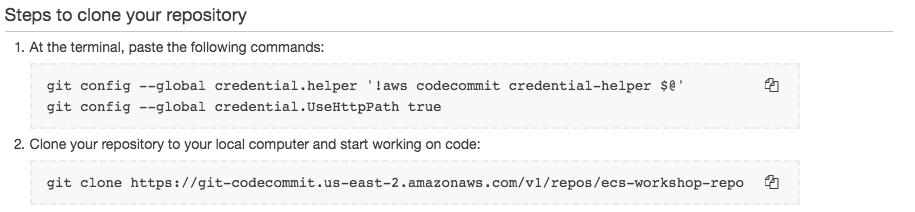
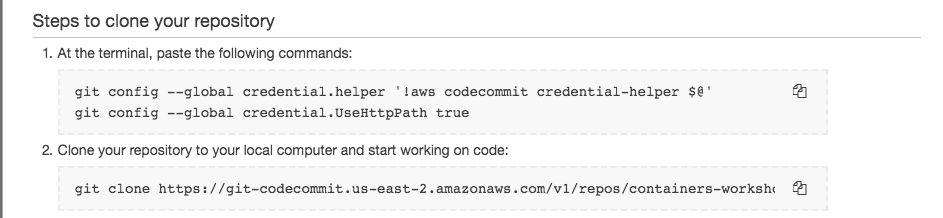
Adding CodeCommit content

Changed region(s): [[0.0, 0.0, 0.9792, 1.0], [0.8262, 0.3679, 0.8568, 0.4528]]

diff --git a/06-CDECS/README.md b/06-CDECS/README.md
@@ -36,16 +36,71 @@ Otherwise click **Create repository**.
 
 ![CodeCommit create repository](/06-CDECS/images/codecommit_create_repository.png)
 
-In **Respoitory name** type a name for your respository. For exmaple: `ecs-workshop-repo`. Leave **Description** blank and click in **Create repository**.
+In **Respoitory name** type a name for your respository. For exmaple: `containers-workshop-repository`. Leave **Description** blank and click in **Create repository**.
 
 ![CodeCommit create repository](/06-CDECS/images/codecommit_create_repository_II.png)
 
 In **Configure email notifications** just click in **Skip**.
 
-Now follow the steps that appear in **Steps to clone your repository**
+Now follow the steps that appear in **Steps to clone your repository** 
 
 ![CodeCommit clone respository](/06-CDECS/images/codecommit_clone_repository.png)
 
     $ git config --global credential.helper '!aws codecommit credential-helper $@'
     $ git config --global credential.UseHttpPath true
-    $ git clone https://git-codecommit.us-east-2.amazonaws.com/v1/repos/ecs-workshop-repo
+    $ git clone https://git-codecommit.us-east-2.amazonaws.com/v1/repos/containers-workshop-repository
+
+The output should be something like:
+
+    $ Cloning into 'containers-workshop-repository'...
+    $ warning: You appear to have cloned an empty repository.
+    $ Admin:~/environment $
+
+Aditionally you'll also need to type the following commands with your email and a username. This is just to identity who commited a new change to the repository:
+
+    $ git config --global user.email "YOUREMAIL@HERE.COM"
+    $ git config --global user.name "USERNAME"
+
+Now we need to copy our application to the CodeCommit repository. First, go to the folder where your application resides
+
+    $ cd /home/ec2-user/environment/containers-on-aws-workshop/00-Application/app
+
+Copy everything to the folder that was created when you cloned the empty repository from CodeCommit
+
+    $ cp -r * /home/ec2-user/environment/containers-workshop-repository/
+
+Go to the folder where we will synchronize with the CodeCommit repository
+
+    $ cd /home/ec2-user/environment/containers-workshop-repository/
+
+Now let's push our application to the repository
+
+    $ git add .
+    $ git commit -m "My first commit"
+
+The output should be somoething like:
+
+    $ [master (root-commit) ed123c6] My first commit
+    $ 61 files changed, 20778 insertions(+)
+    $ create mode 100644 LICENSE
+    $ create mode 100644 css/coming-soon.css
+    $ create mode 100644 gulpfile.js
+    $ create mode 100644 img/AWS_logo_RGB_REV.png
+    $ create mode 100644 img/bg-mobile-fallback.png
+    $ create mode 100644 index.html
+    $ create mode 100644 js/coming-soon.js
+    $ create mode 100644 mp4/bg.mp4
+    $ create mode 100644 package.json
+    $ ...
+
+Finally
+
+    $ git push origin master
+
+    $ Counting objects: 77, done.
+    $ Compressing objects: 100% (73/73), done.
+    $ Writing objects: 100% (77/77), 4.27 MiB | 7.42 MiB/s, done.
+    $ Total 77 (delta 5), reused 0 (delta 0)
+    $ To https://git-codecommit.us-east-2.amazonaws.com/v1/repos/containers-workshop-repository
+    $ * [new branch]      master -> master
+
